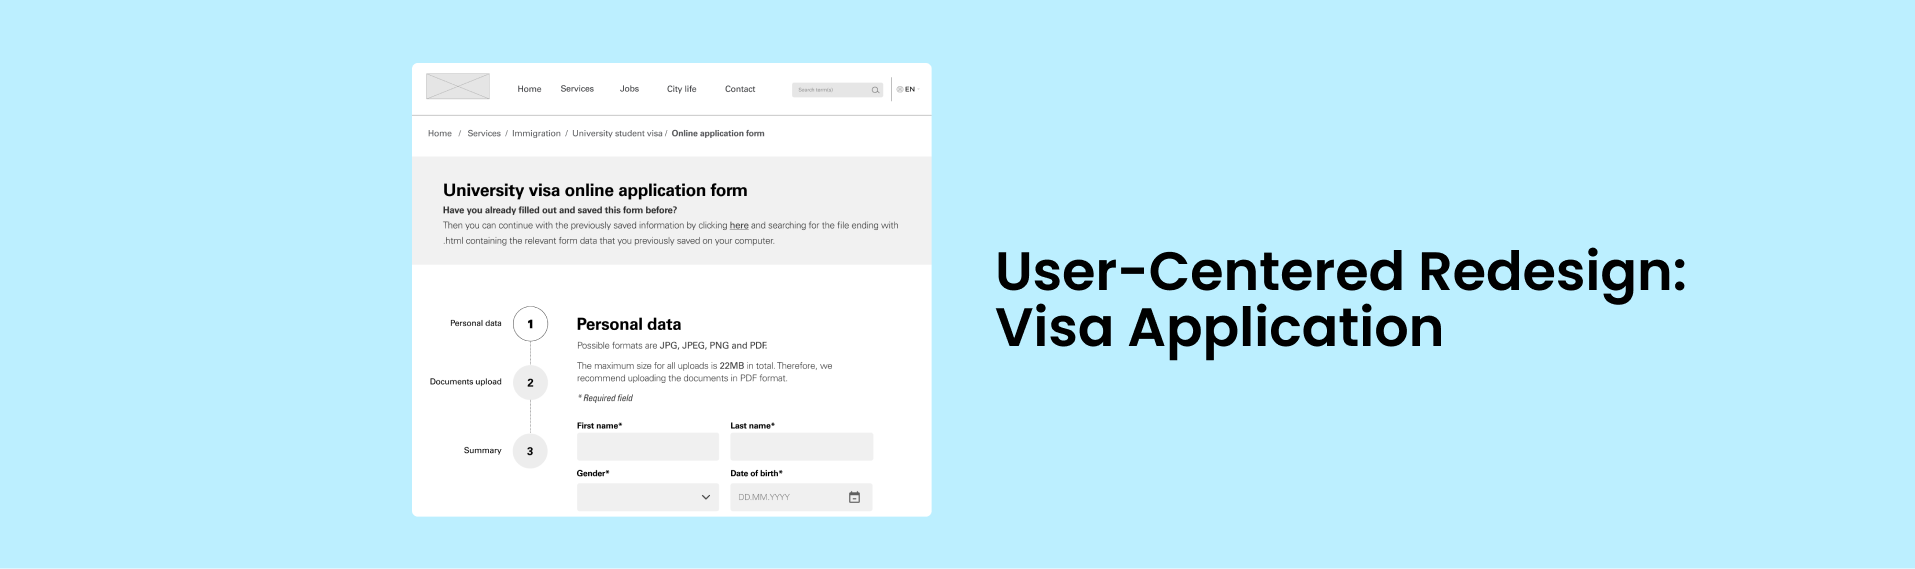
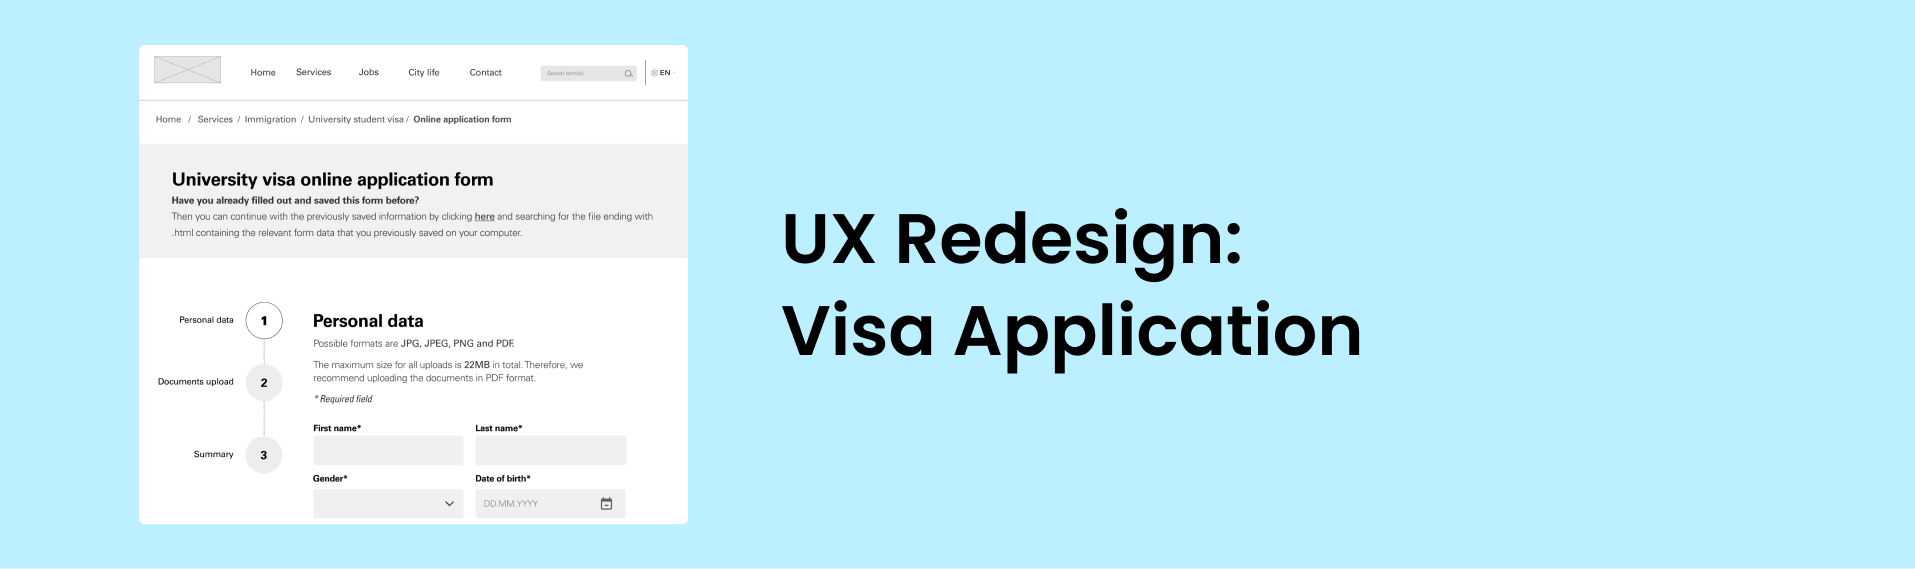
adding UX project page

Changed region(s): [[0.0616, 0.0598, 0.8935, 0.9262], [0.2465, 0.7469, 0.2773, 0.8067]]

diff --git a/ux.html b/ux.html
@@ -1,0 +1,136 @@
+<!DOCTYPE html>
+<html lang="en">
+<head>
+  <meta charset="UTF-8">
+  <meta http-equiv="X-UA-Compatible" content="IE=edge">
+  <meta name="viewport" content="width=device-width, initial-scale=1.0">
+  <title>Lara Melo</title>
+
+  <link type="image/png" sizes="16x16" rel="icon" href="./img/favicon.png">
+  <link rel="stylesheet" href="./css/style.css">
+
+  <script src="https://kit.fontawesome.com/3d62521cd4.js" crossorigin="anonymous"></script>
+
+  <link rel="preconnect" href="https://fonts.googleapis.com">
+<link rel="preconnect" href="https://fonts.gstatic.com" crossorigin>
+<link href="https://fonts.googleapis.com/css2?family=Poppins:wght@400;500;600;700&display=swap" rel="stylesheet">
+</head>
+
+<body>
+  <header class="header-bg">
+
+    <div class="header container">
+      <a href="./index.html">
+        <div class="logo-text">LARA MELO</div>
+      </a>
+
+      <nav aria-label="primaria">
+        <ul class="header-menu">
+          <li><a href="./index.html">HOME</a></li>
+          <li><a href="./projects.html">PROJECTS</a></li>
+          <li><a href="./about.html">ABOUT ME</a></li>
+        </ul>
+      </nav>
+    </div>
+  </header>
+
+  <article class="bikcraft-bg">
+      <img src="./img/ux-bg.png" alt="" class="image1">
+      <img src="./img/ux-mobile.png" alt="" class="image2">
+    <div class="bikcraft container">
+      <div class="project-description">
+        <h2>UX Redesign: Visa Application</h2>
+        <br>
+        <div>
+          <h3 class="overview-title">OVERVIEW</h3>
+          <br>
+          <p class="overview-description">The Visa Application Redesign project focuses on improving the user experience for students applying for visas in Munich, Germany. Leveraging the Double Diamond Process, the project aimed to identify pain points and opportunities for enhancement within the existing system. 
+          </p>
+          <p>
+            By understanding the unique needs and challenges faced by student visa applicants, the project sought to redesign the website system and architecture to better cater to their requirements. This involved optimizing navigation, improving information accessibility, and enhancing user support mechanisms.
+            </p>
+            <p>
+              Through iterative design iterations and a user-centric approach, the project aimed to deliver a transformative solution that empowers student visa applicants with a more efficient and streamlined application experience. 
+            </p>
+          <h3 class="technologies-title">METHODOLOGIES & TOOLS</h3>
+          <br>
+          <p>Double Diamond Process, User Interviews, Figma, Notion, Desk Research, Usability Heuristics, Elaboration of Key Findings, Problems, User Flows and User Journeys<br> <span class="duration-title">DURATION</span> <span>January 2022 - August 2022</span></p>
+        </div>
+        <h2>The project</h2>
+        <h3 class="overview-title">DISCOVER PHASE</h3>
+        <br>
+        <h4 class="project-subtitle">The user</h4>
+        <p>The primary users of this platform are immigrants arriving in Munich with diverse objectives, such as pursuing higher education at the university, attending language courses to learn German, or transitioning to new job opportunities. These individuals typically navigate the bureaucratic processes independently to obtain the necessary residence permits for their stay in Germany. For the purpose of this project, I have chosen to focus specifically on the visa application process for students aiming to study in Munich.</p>
+        <h4 class="project-subtitle">The research</h4>
+        <p>Desk-Research indicates that Munich boasts a diverse population, with non-nationals constituting approximately 23% of its inhabitants, while first and second-generation migrants make up 3.20% of the city's residents. Moreover, the majority group comprises 64% of Munich's population.</p>
+        <p>Throughout my nearly two-year-long collaboration with immigrants, particularly those undertaking language courses to learn German and apply for visas, it became apparent that they face significant challenges in comprehending and navigating the visa application process.</p>
+        <h4 class="project-subtitle">User Journey</h4>
+        <br>
+        <img src="/img/user-journey.png" alt="user journey">
+        <p>In addition to my research efforts, I arranged user interviews to pinpoint the exact nature of the issues and challenges faced by visa applicants. Furthermore, I curated online user reviews, recognizing their potential significance in elucidating the primary concerns surrounding the visa application process.</p>
+        <p>The users  encountered several challenges while navigating the website of the foreigners office for their visa application process. Initially, they struggled to locate relevant information and resorted to contacting the office directly via email and phone. Despite finding information about the visa process, users faced difficulties in booking appointments and completing registration due to unclear website navigation.</p>
+        <p>One significant issue mentioned by the users was the lack of direct links to important registration pages, forcing them to use external search engines like Google to find the necessary information. Additionally, they encountered language barriers as all the information on the registration page was in German, making it challenging for non-native speakers to understand the process fully.
+          Furthermore, attempts to access the online visa application led to irrelevant pages, adding to users' frustration and confusion. Despite their efforts, users struggled to find clear instructions and support within the website interface.</p>
+          <div class="key-findings">
+            <div class="key-findings-text">
+              <p>These challenges highlighted several key issues with the website of the foreigners office:</p>
+              <ul>
+                <li>Complex and unintuitive website navigation: The lack of direct links and unclear organization made it difficult for users to locate essential information and services.</li>
+                <li>Language barriers: The website primarily presented information in German, posing difficulties for non-native speakers seeking to understand the visa application process.</li>
+                <li>Lack of clear instructions and support: Users struggled to find clear instructions and support within the website interface, leading to frustration and confusion.</li>
+              </ul>
+            </div>
+            <img src="img/reviews.png" alt="">
+          </div>
+          <p>As part of the research, benchmarking was conducted to understand how other cities and countries manage their visa processes, particularly in terms of digitalization. Research was conducted on countries like New Zealand and cities like Sydney to gather insights and best practices in visa processing.</p>
+          <h4 class="project-subtitle">Benchmarking</h4>
+          <div class="benchmarking">
+            <img src="img/nz.png" alt="new zealand website" width="380">
+            <img src="img/sy.png" alt="sydney website" width="380">
+          </div>
+          <h3 class="overview-title">DEFINE PHASE</h3>
+          <p>After compiling all of these findings and gathering insights and best practices, I developed a new user journey. This journey serves as the foundation for the next design flows, aimed at enhancing the overall user experience. The goal is to guide users seamlessly through the search, discovery, and achievement phases with as few negative experiences as possible.</p>
+          <h4 class="project-subtitle">New User Journey</h4>
+          <img src="img/new-user-journey.png" alt="">
+          <h4 class="project-subtitle">User Flow</h4>
+          <img src="img/user-flow.jpg" alt="">
+          <p>To enhance user experience, the visa application process underwent significant improvements. Users can now seamlessly navigate from the homepage to the Immigration and Visas section, where language settings ensure accessibility for all. Clear information on residence permits and application procedures, including a dedicated section for Student Visas, meets users' specific needs. Contact options are readily available for further assistance, while the online application streamlines form submission and document uploads. Confirmation emails provide peace of mind, offering copies of uploaded documents, tracking codes for mailed submissions, and application IDs for status monitoring.</p>
+          <h4 class="project-subtitle"></h4>
+          <div class="project-prototype">
+            <img src="img/landing-page.png" alt="" width="365">
+            <img src="img/services-page.png" alt="" width="365">
+          </div>
+          <p><a href="img/user-flow-prototype.pdf" download="img/user-flow-prototype.pdf">Click here to download the complete prototype</a></p>
+      </div>
+    </div>
+    <div class="more-projects">
+        <h3>More Projects</h3>
+        <div class="more-projects-links">
+          <a href="weather-app.html" target="_blank"><img src="./img/weather-app.png" alt=""></a>
+          <a href="bikcraft.html" target="_blank"><img src="./img/bikcraft.png" alt=""></a>
+        </div>
+      </div>
+  </article>
+  
+
+  <footer class="footer-bg">
+
+    <div class="footer container">
+
+      <div class="footer-nav">     
+        <a href="index.html" class="logo-footer">
+        <div class="logo-text">© LARA MELO | 2023</div>
+      </a>
+        <div class="contact-links">
+          <a href="https://www.linkedin.com/in/laramelo/"><i class="fa-brands fa-linkedin fa-2xl" style="color: #373737;"></i></a>
+          <a href="mailto:larabmelo@outlook.com"><i class="fa-regular fa-envelope fa-2xl" style="color: #373737;"></i></a>
+          <a href="https://github.com/larabmelo"><i class="fa-brands fa-github fa-2xl" style="color: #323232;"></i></a>
+          <a href="larabmelo_resume.pdf" download="larabmelo_resume.pdf"><i class="fa-regular fa-file fa-2xl" style="color: #373737;"></i></a>
+        </div>
+      </div>
+    </div>
+   
+  </footer>
+<script src="./js/script.js"></script>
+</body>
+</html>

diff --git a/index.html b/index.html
@@ -51,6 +51,7 @@
         <a href="bikcraft.html" target="_blank"><img src="./img/bikcraft.png" alt=""></a>
         <a href="weather-app.html" target="_blank"><img src="./img/weather-app.png" alt=""></a>
         <a href="todo.html" target="_blank"><img src="./img/todo.png" alt=""></a>
+        <a href="ux.html" target="_blank"><img src="./img/ux.png" alt=""></a>
       </div>
     </div>
   </article>
